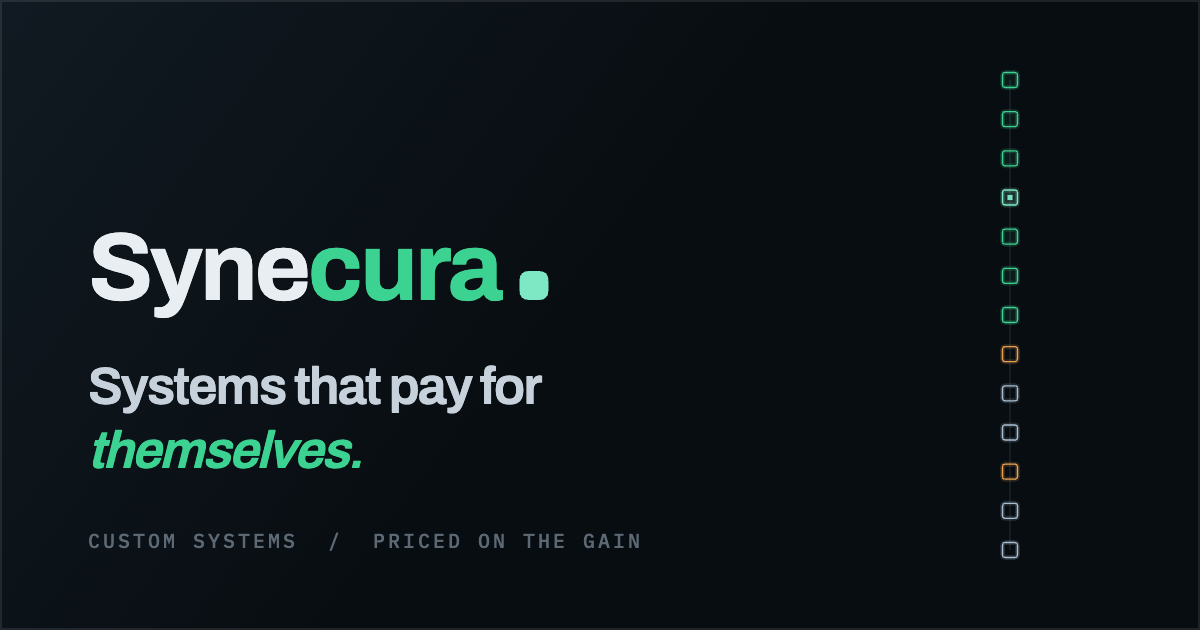
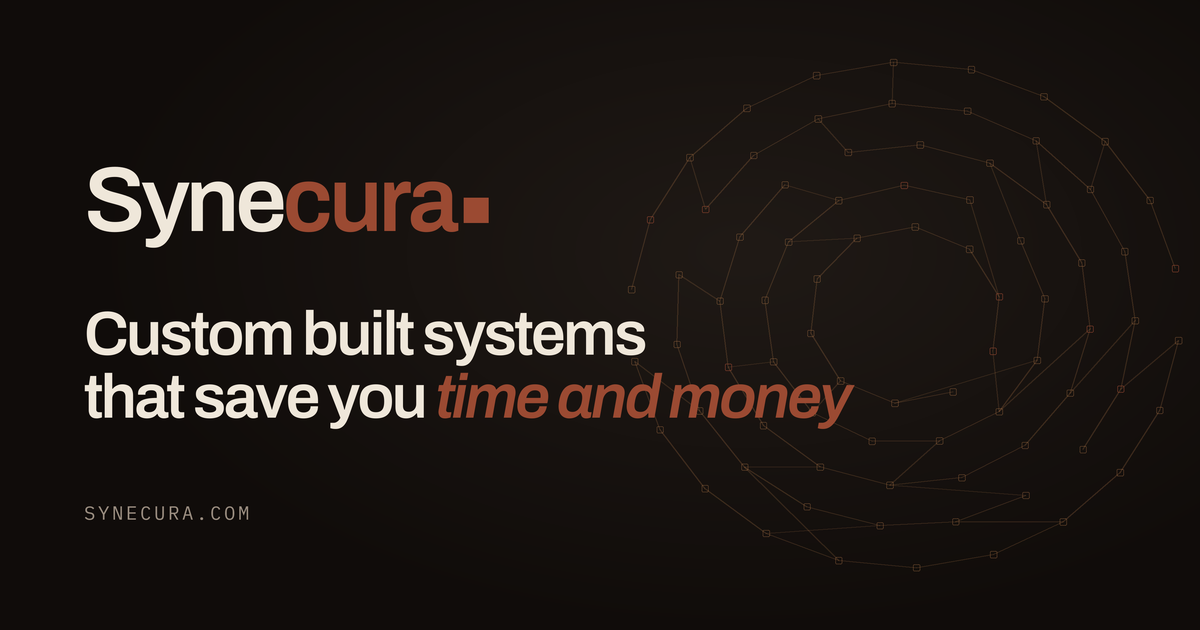
Walnut share card, and complete the social meta
The share image was the green era artwork, so every link to synecura.com
previewed in colours the site no longer uses. The new card is generated
from the site's own tokens and typography: the body vignette, Archivo at
weight 600 with the same negative tracking, the hero line with its accent
half in italic, and the radial network the hero draws.

Also adds the image dimensions, a description, and the X card type. A
scraper can size the box before the file lands, and without the card type
X crops a 1200x630 image to a small square.

diff --git a/index.html b/index.html
@@ -13,6 +13,10 @@
 <meta property="og:title" content="Synecura, custom built systems that save you time and money">
 <meta property="og:url" content="https://synecura.com/">
 <meta property="og:image" content="https://synecura.com/assets/og.png">
+<meta property="og:image:width" content="1200">
+<meta property="og:image:height" content="630">
+<meta property="og:description" content="Synecura builds automated systems made specifically for your business. Start with a free strategy session and see where your business can save.">
+<meta name="twitter:card" content="summary_large_image">
 <link rel="icon" type="image/svg+xml" href="assets/favicon.svg">
 <link rel="preconnect" href="https://fonts.googleapis.com">
 <link rel="preconnect" href="https://fonts.gstatic.com" crossorigin>
